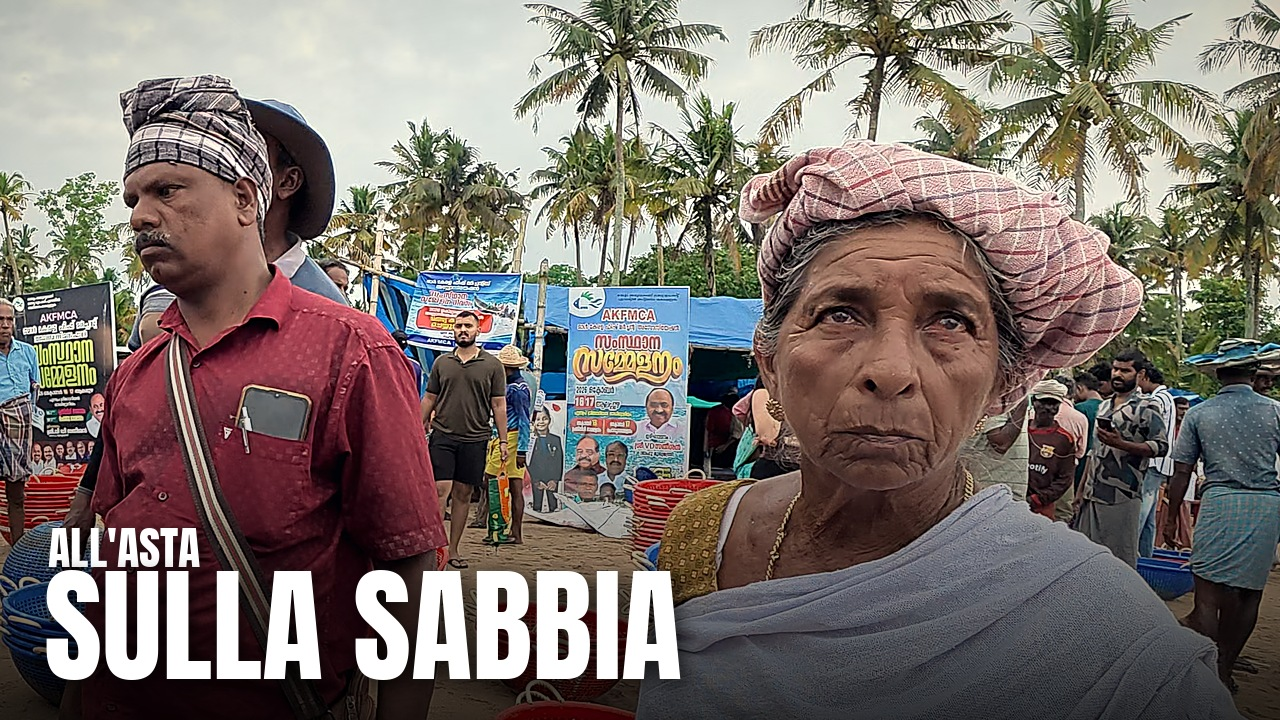
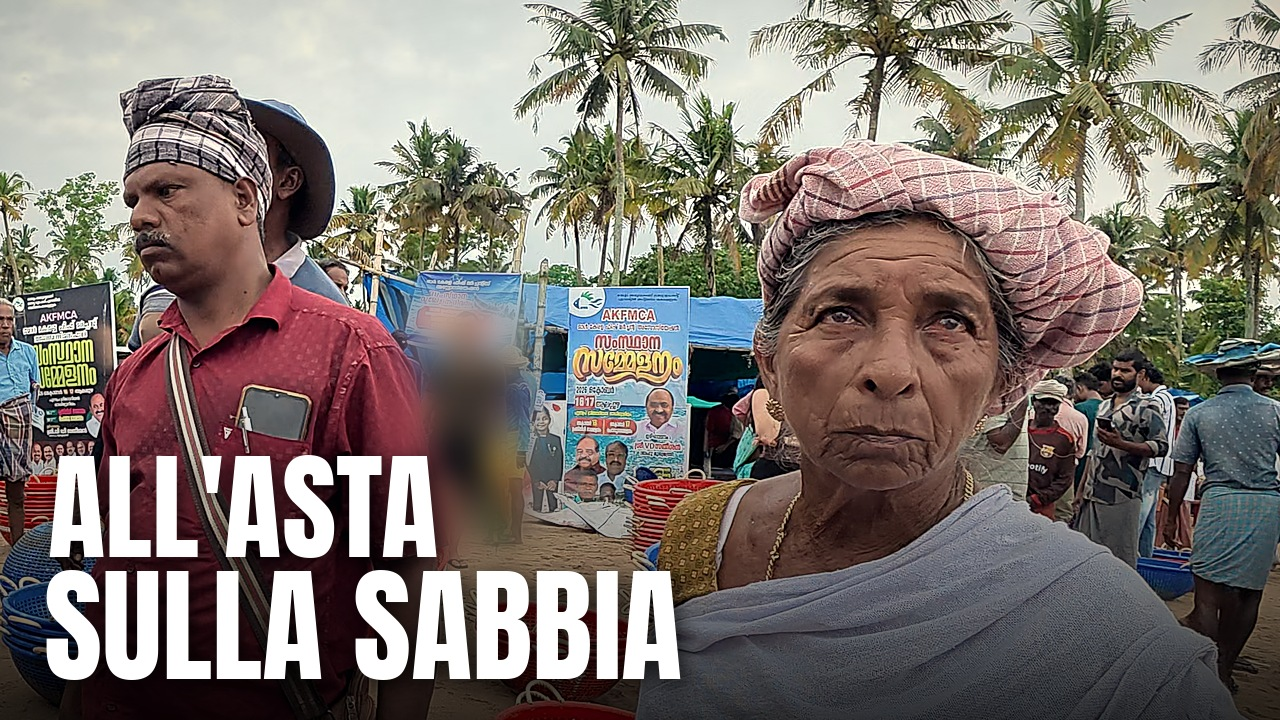
Copy: mercato, miniatura M1 con ALL'ASTA grande e sfondo pulito (Insights 9/11)
Claude-Session: https://claude.ai/code/session_01Htfbh1pdXfsApjZ5UHH6NS

Changed region(s): [[0.0312, 0.3667, 0.4375, 0.7944]]

diff --git a/copioni/miniature_v3/miniature_v3.py b/copioni/miniature_v3/miniature_v3.py
@@ -91,11 +91,14 @@ def text_bottom(layout, text, top):
     bb = ImageDraw.Draw(Image.new('L', (10, 10))).textbbox((0, 0), text, font=f)
     return top + (bb[3] - bb[1])
 
-def make(name, video, lang, src, t, cx, cy, zoom, layout, text, night=False, flip=False, red=None, top=24):
+def make(name, video, lang, src, t, cx, cy, zoom, layout, text, night=False, flip=False, red=None, top=24, small_size=46, blur=None):
     # Regola (Insights, 8/11, dati del reel B): il volto è sempre libero, la scritta mai sopra il viso.
     # Se il volto tocca la fascia del testo, il ritaglio si alza finché il volto è sotto la scritta.
     src_im = Image.open(frame(src, t)).convert('RGB')
     base = grade(crop(src_im, cx, cy, zoom), night, flip).convert('RGBA')
+    if blur:                     # blur=(x0, y0, x1, y1) in pixel della miniatura: zona sfocata con bordo morbido
+        m = Image.new('L', (W, H), 0); ImageDraw.Draw(m).rectangle(blur, fill=255)
+        base = Image.composite(base.filter(ImageFilter.GaussianBlur(14)), base, m.filter(ImageFilter.GaussianBlur(18)))
     # spazio sopra il volto: la scritta sta tutta lì; se non basta (<90 px) si passa allo schema in basso
     ft = face_top(base) if layout in ('dietro', 'citazione') else None
     room = None if ft is None else int(ft) - top - 8
@@ -120,10 +123,12 @@ def make(name, video, lang, src, t, cx, cy, zoom, layout, text, night=False, fli
         small, big = text
         g = np.zeros((H, W), np.float32); g[:] = np.clip((np.arange(H)[:, None] - H * 0.45) / (H * 0.55), 0, 1) ** 1.3 * 0.75
         out = Image.composite(Image.new('RGBA', (W, H), (0, 0, 0, 255)), base, Image.fromarray((g * 255).astype('uint8')))
-        fb = fit(big, ANTON, 640, max_h=190); fs = ImageFont.truetype(ANTON, 46)
+        fb = fit(big, ANTON, 640, max_h=190); fs = ImageFont.truetype(ANTON, small_size)
         d = ImageDraw.Draw(out); bb = d.textbbox((0, 0), big, font=fb)
         y_big = H - 40 - bb[3]
-        if small: shadow_text(out, (48, y_big + bb[1] - 58), [(small, WHITE)], fs, 6)
+        if small:
+            sb = d.textbbox((0, 0), small, font=fs)
+            shadow_text(out, (48, y_big + bb[1] - 12 - sb[3]), [(small, WHITE)], fs, 6 if small_size < 80 else 10)
         shadow_text(out, (44, y_big), [(big, RED if red is True else WHITE)], fb)
     else:                        # 'citazione': frase tra virgolette in alto, una parola rossa
         f = fit(text, ANTON, W - 120, max_h=min(150, room) if room else 150); d = ImageDraw.Draw(base)

diff --git a/copioni/miniature_v3/mercato_v3.py b/copioni/miniature_v3/mercato_v3.py
@@ -5,7 +5,7 @@ import sys; sys.path.insert(0, 'copioni/miniature_v3')
 from miniature_v3 import make
 R = 'work/mercato/raw/'
 J = {
- 'M1_signora': dict(src=R + 'DJI_0118.MP4', t=20.0, cx=.72, cy=.4, zoom=1.7, layout='basso',
+ 'M1_signora': dict(src=R + 'DJI_0118.MP4', t=20.0, cx=.72, cy=.4, zoom=1.7, layout='basso', small_size=118, blur=(400, 285, 535, 565),
      it=("ALL'ASTA", 'SULLA SABBIA'), en=('AUCTIONED', 'ON THE SAND')),
  'M2_mattina': dict(src=R + 'DJI_0120.MP4', t=3.0, cx=.8, cy=.42, zoom=1.6, layout='basso', red=True,
      it=('OGNI MATTINA', 'ALLE 8'), en=('EVERY MORNING', 'AT 8 A.M.')),

diff --git a/copioni/mercato_pacchetto.md b/copioni/mercato_pacchetto.md
@@ -84,5 +84,5 @@ Titolo EN: A 50-KILO FISH IN INDIA 🇮🇳 the fish market on the beach
 Perché: l'intro del lungo apre proprio su "Quello enorme pesava 50-55 chili... come una persona" (0:05); 50 chili è il fatto
 dello Short migliore (60,8%); "mercato del pesce" sono le parole del pubblico che ci trova (video di mercati in Sri Lanka).
 Miniature (Test e confronto, Drive montati/mercato/miniatura/, le vecchie in vecchie/; generatore copioni/miniature_v3/mercato_v3.py):
-1_M1_signora (principale, scelta di Manuel) "ALL'ASTA / SULLA SABBIA" | "AUCTIONED / ON THE SAND";
+1_M1_signora (principale, scelta di Manuel; 9/11 con Insights: "ALL'ASTA" grande come "SULLA SABBIA", sfocata la persona in maglietta verde sullo sfondo) "ALL'ASTA / SULLA SABBIA" | "AUCTIONED / ON THE SAND";
 2_M2_mattina "OGNI MATTINA / ALLE 8" | "EVERY MORNING / AT 8 A.M."; 3_M3_asta "NIENTE TETTO, / NIENTE BANCHI" | "NO ROOF, / NO STALLS".
